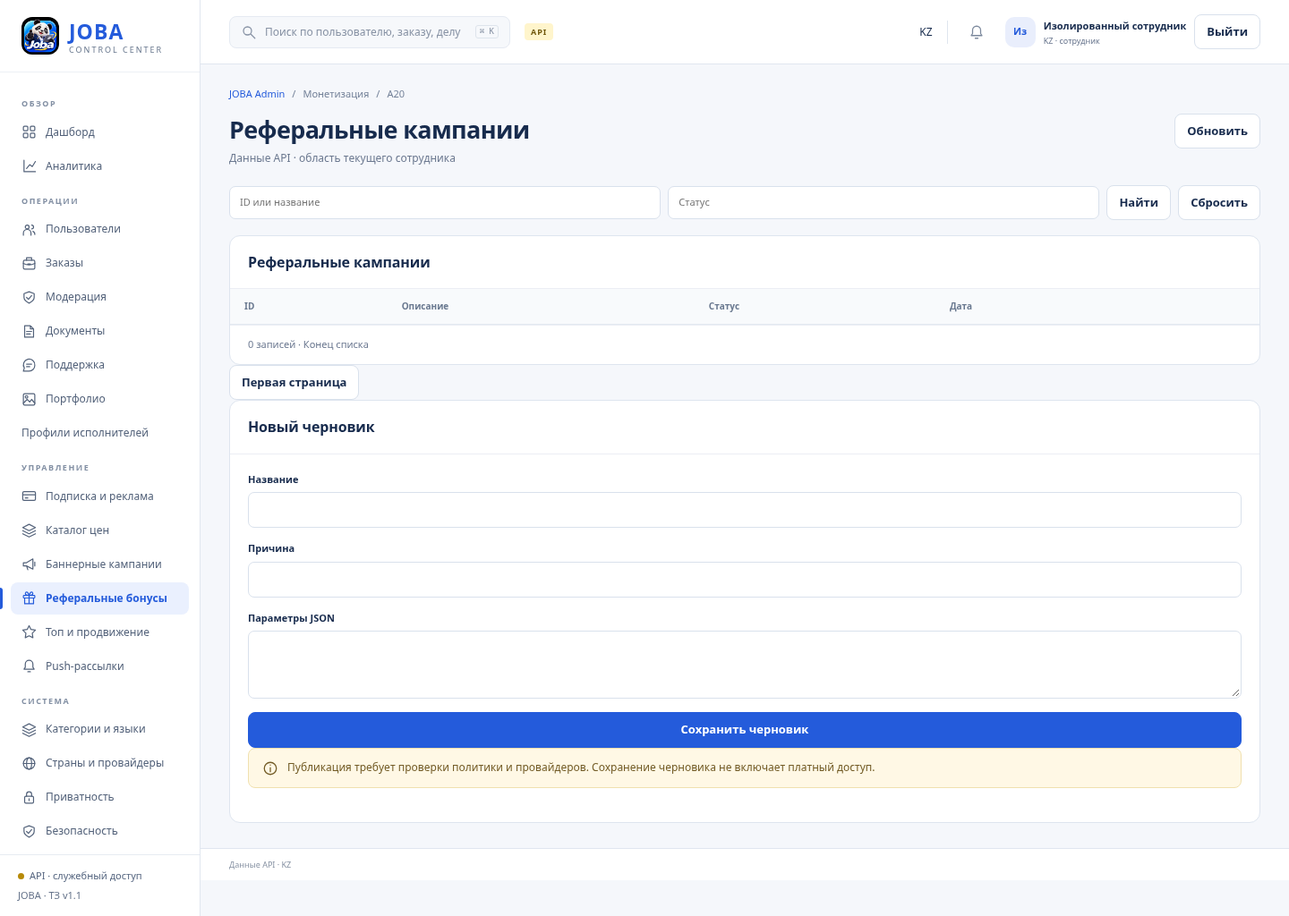
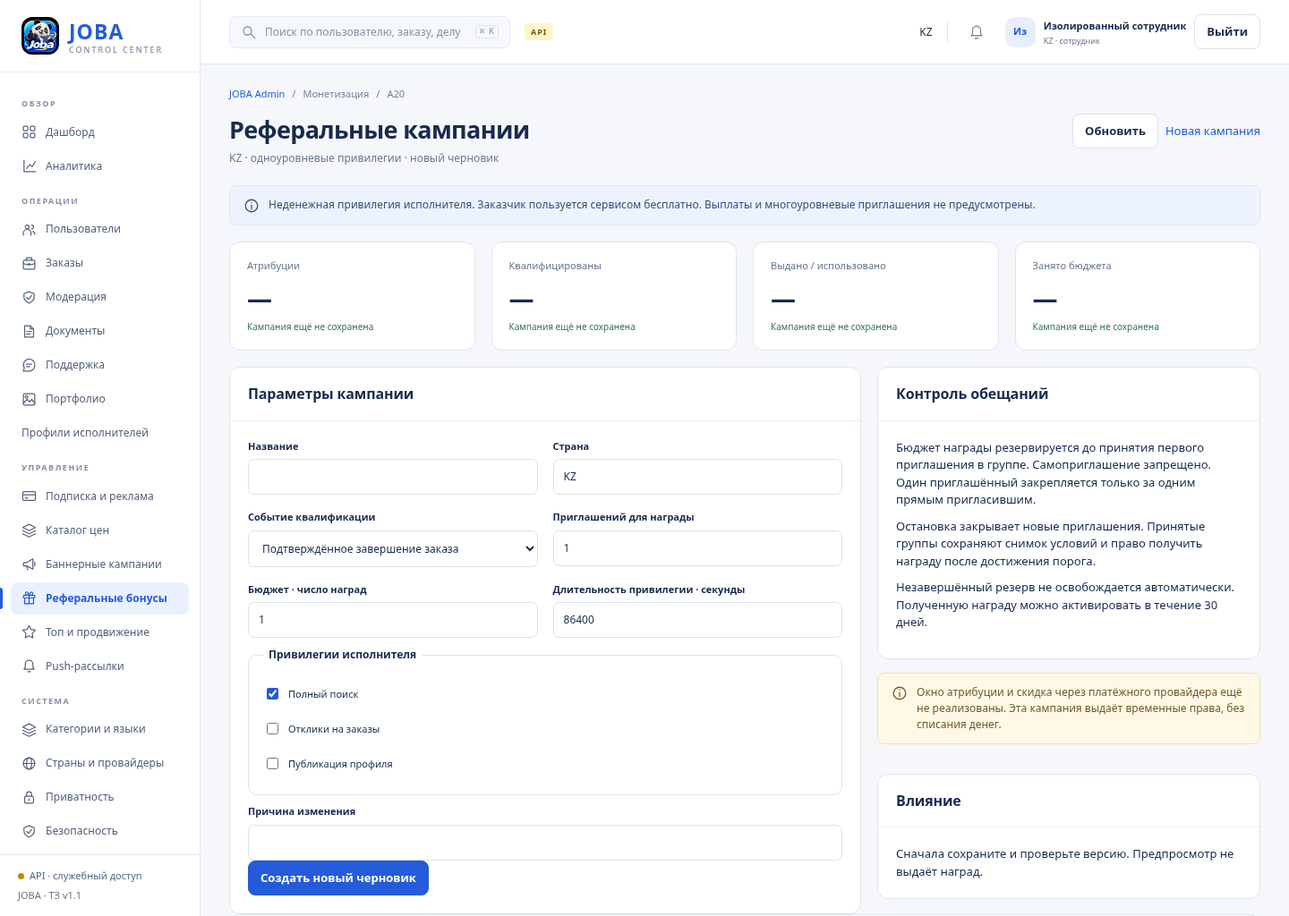
feat: connect structured referral campaign editor to API

diff --git a/apps/admin/referral-workspace.js b/apps/admin/referral-workspace.js
@@ -1,0 +1,12 @@
+const states={draft:'Черновик',effective:'Опубликована',superseded:'Заменена',stopped:'Остановлена'},events={completed_order:'Подтверждённое завершение заказа',executor_verified:'Успешная проверка исполнителя'},caps={search_full:'Полный поиск',send_offer:'Отклики на заказы',publish_profile:'Публикация профиля'};
+export async function referralWorkspace({key,api,esc,card,note,tablecard,country,actorId,onRefresh}){
+ const params=new URLSearchParams(location.hash.split('?')[1]||''),list=await api('/admin/referral-campaigns?'+new URLSearchParams({limit:'20',...(params.get('cursor')?{cursor:params.get('cursor')}:{})}));
+ const selected=params.get('id')||(!params.has('new')?list.items.find(x=>x.status==='effective')?.id:undefined),r=selected?await api('/admin/referral-campaigns/'+encodeURIComponent(selected)):undefined,p=r?.payload||{},own=r?.owner===actorId&&r.status==='draft',m=r?.metrics;
+ const input=(label,name,value,type='text',attrs='')=>`<div class="formfield"><label for="referral-${name}">${label}</label><input id="referral-${name}" name="${name}" value="${esc(value??'')}" type="${type}" ${attrs}></div>`;
+ return {key,id:key==='referral-preview'?'A20.preview':'A20',title:'Реферальные кампании',subtitle:country+' · одноуровневые привилегии · '+(r?'Версия '+r.version:'новый черновик'),section:'Монетизация',actions:'<button id="refresh-data">Обновить</button><a class="btn primary" href="#referrals?new=1">Новая кампания</a>',body:()=>`${note('Неденежная привилегия исполнителя. Заказчик пользуется сервисом бесплатно. Выплаты и многоуровневые приглашения не предусмотрены.')}<div class="grid cols4 mt">${[['Атрибуции',m?.attributions],['Квалифицированы',m?.qualified],['Выдано / использовано',m?m.issued+' / '+m.redeemed:undefined],['Занято бюджета',m?m.budget_used+' / '+p.budget_units:undefined]].map(([label,value])=>`<section class="card metric"><div class="metric-label">${esc(label)}</div><div class="metric-num">${esc(value??'—')}</div><div class="metric-trend">${m?'По выбранной кампании':'Кампания ещё не сохранена'}</div></section>`).join('')}</div><div class="grid split mt"><form id="referral-editor" class="stack">${card('Параметры кампании',`<div class="formgrid">${input('Название','title',r?.title,'text','required minlength="3" maxlength="120"')}${input('Страна','country',country,'text','readonly')}<div class="formfield"><label for="referral-event">Событие квалификации</label><select id="referral-event" name="qualifying_event">${Object.entries(events).map(([k,v])=>`<option value="${k}" ${p.qualifying_event===k?'selected':''}>${v}</option>`).join('')}</select></div>${input('Приглашений для награды','threshold',p.threshold??1,'number','required min="1" max="100"')}${input('Бюджет · число наград','budget_units',p.budget_units??1,'number','required min="1" max="1000000"')}${input('Длительность привилегии · секунды','reward_duration_seconds',p.reward_duration_seconds??86400,'number','required min="60" max="31622400"')}</div><fieldset><legend>Привилегии исполнителя</legend>${Object.entries(caps).map(([k,v])=>`<label class="check"><input name="capabilities" type="checkbox" value="${k}" ${(p.capabilities||['search_full']).includes(k)?'checked':''}> ${v}</label>`).join('')}</fieldset>${input('Причина изменения','reason','','text','required minlength="10" maxlength="1000"')}<div class="actions"><button class="primary">${own?'Сохранить черновик':'Создать новый черновик'}</button></div><div role="alert"></div>`)}</form><div class="stack">${card('Контроль обещаний','<p>Бюджет награды резервируется до принятия первого приглашения в группе. Самоприглашение запрещено. Один приглашённый закрепляется только за одним прямым пригласившим.</p><p>Остановка закрывает новые приглашения. Принятые группы сохраняют снимок условий и право получить награду после достижения порога.</p><p>Незавершённый резерв не освобождается автоматически. Полученную награду можно активировать в течение 30 дней.</p>')}${note('Окно атрибуции и скидка через платёжного провайдера ещё не реализованы. Эта кампания выдаёт временные права, без списания денег.','warn')}${r?card('Проверка и публикация',`<form id="referral-command" class="stack"><label for="referral-command-reason">Основание действия</label><textarea id="referral-command-reason" name="reason" required minlength="10" maxlength="1000"></textarea><div class="actions"><button value="validate">Проверить</button><button value="preview">Предпросмотр</button>${r.status==='draft'?'<button class="primary" value="publish">Опубликовать другим сотрудником</button>':r.status==='effective'?'<button value="stop">Остановить кампанию</button>':''}<button value="rollback">Черновик отката</button></div><div role="alert"></div><div role="status"></div></form>`):''}${card('Влияние','<div id="referral-impact">Сначала сохраните и проверьте версию. Предпросмотр не выдаёт наград.</div>')}</div></div>${tablecard('Версии кампаний',['Название','Состояние','Порог / бюджет',''],list.items.map(x=>[esc(x.title),esc(states[x.status]||x.status),esc(x.payload.threshold+' / '+x.payload.budget_units),`<a href="#referrals?id=${encodeURIComponent(x.id)}">Открыть →</a>`]))}${list.meta?.next_cursor?`<a class="btn" href="#referrals?cursor=${encodeURIComponent(list.meta.next_cursor)}">Следующая страница</a>`:''}`,
+ bind(){const form=document.getElementById('referral-editor'),commands=document.getElementById('referral-command');let dirty=false,busy=false;
+ form.oninput=()=>{dirty=true;if(commands){commands.querySelectorAll('button').forEach(b=>b.disabled=true);commands.querySelector('[role=status]').textContent='Сохраните изменения перед проверкой.';}};
+ form.onsubmit=async e=>{e.preventDefault();if(busy)return;const data=new FormData(form),values=Object.fromEntries(data),capabilities=data.getAll('capabilities');if(!capabilities.length){form.querySelector('[role=alert]').textContent='Выберите хотя бы одну привилегию.';return;}const payload={threshold:Number(values.threshold),budget_units:Number(values.budget_units),reward_duration_seconds:Number(values.reward_duration_seconds),qualifying_event:values.qualifying_event,capabilities};const controls=[...form.querySelectorAll('input,select,button')];busy=true;controls.forEach(x=>x.disabled=true);form.querySelector('[role=alert]').textContent='';try{const saved=await api('/admin/referral-campaigns'+(own?'/'+r.id:''),own?'PATCH':'POST',{title:values.title,reason:values.reason,payload,...(own?{expected_version:r.version}:{})});if(selected===saved.id)await onRefresh();else location.hash='referrals?id='+encodeURIComponent(saved.id);}catch(error){form.querySelector('[role=alert]').textContent=error.message;}finally{busy=false;controls.forEach(x=>x.disabled=false);}};
+ if(commands)commands.onsubmit=async e=>{e.preventDefault();if(dirty||busy)return;busy=true;const action=e.submitter.value;commands.querySelectorAll('button').forEach(x=>x.disabled=true);form.querySelectorAll('input,select,button').forEach(x=>x.disabled=true);commands.querySelector('[role=alert]').textContent='';try{const result=await api('/admin/referral-campaigns/'+r.id+'/'+action,'POST',{expected_version:r.version,reason:new FormData(commands).get('reason')});if(['validate','preview'].includes(action)){commands.querySelector('[role=status]').textContent='Сохранённая версия проверена.';document.getElementById('referral-impact').textContent=action==='preview'?`Страна ${result.country}; активных аккаунтов ${result.country_active_accounts}; версия ${result.source_version}. Награды не выданы.`:'Порог, бюджет, событие и привилегии корректны.';}else if(action==='rollback')location.hash='referrals?id='+encodeURIComponent(result.id);else await onRefresh();}catch(error){commands.querySelector('[role=alert]').textContent=error.message;}finally{busy=false;commands.querySelectorAll('button').forEach(x=>x.disabled=dirty);form.querySelectorAll('input,select,button').forEach(x=>x.disabled=false);}};
+ }};
+}

diff --git a/apps/admin/runtime.js b/apps/admin/runtime.js
@@ -1,3 +1,4 @@
+import {referralWorkspace} from './referral-workspace.js';
 import {categoryWorkspace} from './category-workspace.js';
 import {priceWorkspace} from './price-workspace.js';
 import {documentPolicyWorkspace} from './document-policy-workspace.js';
@@ -21,7 +22,7 @@ const {routes,render,card,tablecard,field,note,metric,badge}=window.JOBA_ADMIN;
 const designMode=new URLSearchParams(location.search).has('design');
 const esc=v=>String(v??'').replace(/[&<>"']/g,c=>({'&':'&amp;','<':'&lt;','>':'&gt;','"':'&quot;',"'":'&#39;'}[c]));
 let session,loginDraft,cache={},error='',generation=0,disposeWorkspace;
-const privateWorkspaces=new Set([...pushRoutes,...scenarioRoutes,...userRoutes,'categories','prices','pricing','verificationPolicies','retention','campaigns','banner-detail','branding-build','boosts','boost-grant','analytics','dashboard','security','jobs','scheduled','job-detail','branding','countries','monetization','settings','legal']);
+const privateWorkspaces=new Set([...pushRoutes,...scenarioRoutes,...userRoutes,'referrals','referral-preview','categories','prices','pricing','verificationPolicies','retention','campaigns','banner-detail','branding-build','boosts','boost-grant','analytics','dashboard','security','jobs','scheduled','job-detail','branding','countries','monetization','settings','legal']);
 const cursors={},filters={},configRoutes=new Set(['prices','pricing','monetization','push','referrals','dictionaries','dictionary','categories','ranking','placements','verificationPolicies','retention']);
 const sections={users:['users','Аккаунты'],orders:['orders','Заказы'],support:['support-threads','Поддержка'],'support-recovery':['recovery-threads','Восстановление доступа'],moderation:['cases','Дела'],portfolio:['portfolio','Портфолио'],contractors:['contractors','Профили исполнителей'],privacy:['privacy-requests','Запросы приватности'],blacklist:['blacklist','Черный список'],audit:['audit','Аудит'],prices:['price-versions','Цены'],monetization:['monetization-configs','Монетизация'],push:['push-campaigns','Рассылки'],referrals:['referral-campaigns','Реферальные кампании'],dictionaries:['moderation-dictionaries','Словари'],categories:['categories','Категории'],ranking:['ranking-configs','Рейтинг'],pricing:['price-versions','Каталог цен'],campaigns:['banner-campaigns','Кампании'],dictionary:['moderation-dictionaries','Запрещенные слова'],verification:['verifications','Проверка документов'],top100:['boost-reports','Топ и продвижение'],placements:['placement-policies','Размещения'],verificationPolicies:['verification-policies','Правила проверки'],retention:['retention-policies','Сроки хранения']};
 function clearStaffState(){
@@ -104,18 +105,19 @@ async function draw(reload=true) {
     if(reload&&session){
       const workspace=document.querySelector('.workspace');if(workspace){workspace.innerHTML=note('Загрузка данных…');workspace.setAttribute('aria-busy','true');}
       if(pushRoutes.has(key))routes[key]=await pushWorkspace({key,country:session.user.country,canManageTests:session.user.staff_permissions?.includes('administrator'),api:request,esc,card,tablecard,note,badge,namedField,onRefresh:()=>draw()});
-      if(scenarioRoutes.has(key)&&!['promo','promo-preview','banner-detail'].includes(key))routes[key]=await scenarioWorkspace({key,api:request,esc,card,tablecard,note,namedField,onRefresh:()=>draw()});
+      if(scenarioRoutes.has(key)&&!['promo','promo-preview','banner-detail','referral-preview'].includes(key))routes[key]=await scenarioWorkspace({key,api:request,esc,card,tablecard,note,namedField,onRefresh:()=>draw()});
       if(['boosts','boost-grant'].includes(key))routes[key]=await boostWorkspace({key,api:request,esc,card,tablecard,note,badge,onRefresh:()=>draw()});
       if(key==='branding-build')routes[key]=await brandingBuildWorkspace({key,api:request,download:api.download,esc,card,tablecard,note,badge,onRefresh:()=>draw()});
       if(key==='branding')routes[key]=await brandingWorkspace({key,api:request,files:{upload:async file=>{if(g!==generation)throw Error('Экран изменился');const result=await api.upload(file);if(g!==generation)throw Error('Экран изменился');return result;},download:async path=>{if(g!==generation)throw Error('Экран изменился');const result=await api.download(path);if(g!==generation)throw Error('Экран изменился');return result;}},esc,card,note,badge,namedField,onRefresh:()=>draw()});
       if(key==='countries')routes[key]=await countryWorkspace({key,api:request,esc,card,note,badge,namedField,onRefresh:()=>draw()});
       if(['analytics','dashboard','security','jobs','scheduled','job-detail'].includes(key))routes[key]=await systemWorkspace({key,api:request,esc,card,tablecard,note,metric,badge,onRefresh:()=>draw()});
       if(key==='security')routes[key].actions+='<a class="btn" href="#security-full">Защищённый просмотр</a>';
-      if(sections[key]&&!pushRoutes.has(key)&&!['campaigns','verificationPolicies','retention','prices','pricing','categories'].includes(key))cache[key]=await request('/admin/'+sections[key][0]+'?'+new URLSearchParams({...filters[key],...(cursors[key]?{cursor:cursors[key]}:{})}));
+      if(sections[key]&&!pushRoutes.has(key)&&!['referrals','campaigns','verificationPolicies','retention','prices','pricing','categories'].includes(key))cache[key]=await request('/admin/'+sections[key][0]+'?'+new URLSearchParams({...filters[key],...(cursors[key]?{cursor:cursors[key]}:{})}));
       if(key==='categories')routes[key]=await categoryWorkspace({key,api:request,esc,card,note,tablecard,country:session.user.country,actorId:session.user.id,onRefresh:()=>draw()});
       if(['verificationPolicies','retention'].includes(key))routes[key]=await documentPolicyWorkspace({key,api:request,esc,card,note,tablecard,country:session.user.country,actorId:session.user.id,onRefresh:()=>draw()});
       if(['campaigns','banner-detail'].includes(key))routes[key]=await bannerWorkspace({key,api:request,files:{upload:async file=>{if(g!==generation)throw Error('Экран изменился');const result=await api.upload(file,'banner');if(g!==generation)throw Error('Экран изменился');return result;},download:async path=>{if(g!==generation)throw Error('Экран изменился');const result=await api.download(path);if(g!==generation)throw Error('Экран изменился');return result;}},esc,card,note,tablecard,country:session.user.country,actorId:session.user.id,onRefresh:()=>draw()});
       if(['promo','promo-preview'].includes(key))routes[key]=await promotionWorkspace({key,api:request,esc,card,note,tablecard,country:session.user.country,actorId:session.user.id,onRefresh:()=>draw()});
+      if(['referrals','referral-preview'].includes(key))routes[key]=await referralWorkspace({key,api:request,esc,card,note,tablecard,country:session.user.country,actorId:session.user.id,onRefresh:()=>draw()});
       if(['pricing','prices'].includes(key))routes[key]=await priceWorkspace({key,api:request,esc,card,note,tablecard,country:session.user.country,actorId:session.user.id,onRefresh:()=>draw()});
       if(key==='monetization')routes[key]=await monetizationWorkspace({key,api:request,esc,card,note,metric,badge,namedField,onRefresh:()=>draw()});
       if(['settings','legal'].includes(key)||key.startsWith('recovery-live/'))routes[key]=await operationsWorkspace({key,api:request,esc,card,note,namedField,onRefresh:()=>draw()});

diff --git a/services/api/src/marketplace.ts b/services/api/src/marketplace.ts
@@ -1,3 +1,4 @@
+import {referralPolicy} from './referral-policy';
 import {categoryId,categoryPayload} from './category-payload';
 import {pricePayload} from './price-payload';
 import {countryEnabled} from './country-access';
@@ -1287,8 +1288,18 @@ export class Marketplace {
           if(b.payload?.category_id){const original=await this.object(String(b.payload.category_id),a,'category');stable=categoryId(original);r.legacy_id=original.legacy_id;}
           r.payload=categoryPayload(b.payload,a.country,stable);r.base_version_id=(await this.categories(a.country)).find(x=>x.id===stable)?.record_id??null;await this.store.put(r);await this.audit(a,'categories.draft',r.id,text(b,'reason',5,1000));return r;
         }
-        const r=this.record(kinds[section],a,{title:text(b,'title',3,120),status:'draft',payload:section==='price-versions'?pricePayload(b.payload,a.country):section==='push-campaigns'?normalizePushPayload(b.payload??{}):section==='promotions'?normalizePromotionPayload(b.payload??{}):b.payload??{}});
+        const r=this.record(kinds[section],a,{title:text(b,'title',3,120),status:'draft',payload:section==='referral-campaigns'?referralPolicy(b.payload):section==='price-versions'?pricePayload(b.payload,a.country):section==='push-campaigns'?normalizePushPayload(b.payload??{}):section==='promotions'?normalizePromotionPayload(b.payload??{}):b.payload??{}});
         await this.store.put(r);await this.audit(a,section+'.draft',r.id,text(b,'reason',5,1000));return r;
+      }
+      const editReferral=path.match(/^\/admin\/referral-campaigns\/([^/]+)$/);
+      if(editReferral&&['GET','PATCH'].includes(method)){
+        const r=await this.object(editReferral[1],a,'referral_campaign');
+        if(method==='GET'){
+          const attributions=(await this.store.all('referral_attribution',a.country)).filter(x=>x.campaign_id===r.id),rewards=(await this.store.all('referral_reward',a.country)).filter(x=>x.campaign_id===r.id),reservations=(await this.store.all('referral_reservation',a.country)).filter(x=>x.campaign_id===r.id);
+          return {...r,metrics:{attributions:attributions.length,qualified:attributions.filter(x=>x.status==='qualified').length,issued:rewards.length,redeemed:rewards.filter(x=>x.status==='redeemed').length,reserved:reservations.filter(x=>x.status==='reserved').length,budget_used:reservations.length+rewards.filter(x=>!x.reservation_id).length}};
+        }
+        this.version(r,b);if(r.owner!==a.id||r.status!=='draft')fail(409,'STATE_CONFLICT','Создайте новый черновик кампании');
+        const result=await this.store.put({...r,title:text(b,'title',3,120),payload:referralPolicy(b.payload),preview:undefined,version:r.version+1});await this.audit(a,'referrals.edited',r.id,text(b,'reason',5,1000));return result;
       }
       const editCategory=path.match(/^\/admin\/categories\/([^/]+)$/);
       if(editCategory&&['GET','PATCH'].includes(method)){
@@ -1381,7 +1392,7 @@ export class Marketplace {
       if(configurationCommand&&configKinds.includes(section)&&method==='POST') {
         const r=await this.object(configurationCommand[2],a,kinds[section]);
         if(configurationCommand[3]==='preview'){this.version(r,b);const reason=text(b,'reason',10,1000);const preview=await this.configuration.preview(r);await this.audit(a,'configuration.preview',r.id,reason);return preview;}
-        if(configurationCommand[3]==='validate'){if(['verification_policy','retention_policy','price_version','category'].includes(r.kind))this.version(r,b);const result=await this.configuration.validate(r);if(r.kind==='price_version')await this.audit(a,'prices.validated',r.id,text(b,'reason',10,1000));return result;}
+        if(configurationCommand[3]==='validate'){if(['verification_policy','retention_policy','price_version','category','referral_campaign'].includes(r.kind))this.version(r,b);const result=await this.configuration.validate(r);if(r.kind==='price_version')await this.audit(a,'prices.validated',r.id,text(b,'reason',10,1000));return result;}
         const result=await this.configuration.publish(r,a.id,b.expected_version);await this.audit(a,section+'.published',r.id,text(b,'reason',10,1000));return result;
       }
       const configurationStop=path.match(/^\/admin\/([^/]+)\/([^/]+)\/(stop|cancel|rollback)$/);

diff --git a/services/api/src/configuration.ts b/services/api/src/configuration.ts
@@ -1,3 +1,4 @@
+import {referralPolicy} from './referral-policy';
 import {categoryId,validateCategory} from './category-payload';
 import {pricePayload} from './price-payload';
 import {validatePushCampaign} from './push-campaigns';
@@ -63,11 +64,7 @@ export class Configuration {
     }
     if(r.kind==='dictionary'){try{validateRules(p.rules);}catch(e:any){fail('VALIDATION_ERROR',e.message);}}
     if(r.kind==='category')return validateCategory(this.store,r);
-    if(r.kind==='referral_campaign') {
-      if(!Number.isInteger(p.threshold)||p.threshold<1||p.threshold>100||!Number.isInteger(p.budget_units)||p.budget_units<1||!Number.isInteger(p.reward_duration_seconds)||p.reward_duration_seconds<60)fail('VALIDATION_ERROR','Проверьте порог, бюджет и длительность');
-      if(!['completed_order','executor_verified'].includes(p.qualifying_event))fail('VALIDATION_ERROR','Укажите подтверждаемое событие');
-      if(p.multilevel||p.cash_payout)fail('POLICY_REJECTED','В первом релизе только одноуровневые неденежные привилегии');
-    }
+    if(r.kind==='referral_campaign')referralPolicy(p);
     if(r.kind==='ranking_config')rankingParameters(p);
     if(r.kind==='placement_policy'&&(!Number.isInteger(p.capacity)||p.capacity<1||p.capacity>100))fail('VALIDATION_ERROR','Проверьте ёмкость размещения');
     if(['verification_policy','retention_policy'].includes(r.kind)) {
@@ -99,7 +96,7 @@ export class Configuration {
       const active=(await this.store.all('boost',r.country)).filter(x=>x.placement_id===r.payload.placement_id&&['active','scheduled'].includes(x.status));
       if(active.length>r.payload.capacity)fail('CAPACITY_PROMISE_CONFLICT','Нельзя уменьшить ёмкость ниже выданных обещаний',409);
     }
-    const scope=(x:RecordData)=>JSON.stringify(x.kind==='category'?{category:x.payload?.category_id??x.id}:x.kind==='price_version'?{provider:x.payload.provider,product:x.payload.product_id,audience:x.payload.audience}:x.kind==='placement_policy'?{placement:x.payload.placement_id}:{scope:x.payload?.scope,role:x.payload?.role,platform:x.payload?.platform});
+    const scope=(x:RecordData)=>JSON.stringify(x.kind==='referral_campaign'?{country:x.country}:x.kind==='category'?{category:x.payload?.category_id??x.id}:x.kind==='price_version'?{provider:x.payload.provider,product:x.payload.product_id,audience:x.payload.audience}:x.kind==='placement_policy'?{placement:x.payload.placement_id}:{scope:x.payload?.scope,role:x.payload?.role,platform:x.payload?.platform});
     for(const old of await this.store.all(r.kind,r.country))if(old.status==='effective'&&scope(old)===scope(r))await this.store.put({...old,status:'superseded',version:old.version+1});
     return this.store.put({...r,status:'effective',preview,published_by:actor,published_at:new Date().toISOString(),version:r.version+1});
   }

diff --git a/services/api/src/referral-policy.ts b/services/api/src/referral-policy.ts
@@ -1,0 +1,9 @@
+import {HttpException} from '@nestjs/common';
+export function referralPolicy(p:any){
+ const fail=(message:string):never=>{throw new HttpException({error:{code:'VALIDATION_ERROR',message,details:{},retryable:false}},422);};
+ if(!p||!Number.isSafeInteger(p.threshold)||p.threshold<1||p.threshold>100||!Number.isSafeInteger(p.budget_units)||p.budget_units<1||p.budget_units>1000000||!Number.isSafeInteger(p.reward_duration_seconds)||p.reward_duration_seconds<60||p.reward_duration_seconds>366*86400)fail('Проверьте порог, бюджет и длительность привилегии');
+ if(!['completed_order','executor_verified'].includes(p.qualifying_event))fail('Укажите подтверждаемое событие');
+ if(p.multilevel||p.cash_payout)fail('Допустимы только одноуровневые неденежные привилегии');
+ if(!Array.isArray(p.capabilities)||!p.capabilities.length||new Set(p.capabilities).size!==p.capabilities.length||p.capabilities.some((x:any)=>!['search_full','send_offer','publish_profile'].includes(x)))fail('Выберите доступные привилегии исполнителя');
+ return {threshold:p.threshold,budget_units:p.budget_units,reward_duration_seconds:p.reward_duration_seconds,qualifying_event:p.qualifying_event,capabilities:p.capabilities,multilevel:false,cash_payout:false};
+}

diff --git a/apps/admin/styles.css b/apps/admin/styles.css
@@ -21,3 +21,5 @@
 .category-schema-field{border:1px solid #D9E1EC;border-radius:8px;margin:12px 0;padding:14px}.category-schema-field label{display:flex;flex-direction:column;gap:6px;font-size:11px}.category-schema-field input[type=checkbox]{width:auto;align-self:flex-start}.category-schema-field button{margin-top:10px}
 
 .category-workspace{column-gap:14px}.category-workspace .cardhead{padding:15px 18px}.category-workspace .cardhead h2{font-size:14px}.category-workspace .cardbody{padding:16px 18px}.category-workspace .formfield input,.category-workspace .formfield select{font-size:11px}.category-workspace .formgrid{gap:17px 12px}.category-workspace .treeitem{color:#53627A}.category-workspace .treeitem.selected{color:#245BDB;background:#EAF0FE}
+
+#referral-editor fieldset{border:1px solid var(--line,#dbe3f2);border-radius:10px;padding:12px 16px;margin:10px 0;min-width:0}#referral-editor legend{font-size:12px;font-weight:700;padding:0 6px}#referral-editor .check{display:flex;align-items:center;gap:8px;margin:6px 0}#referral-editor .check input{width:auto;min-height:0}

diff --git a/docs/referral-editor-update.md b/docs/referral-editor-update.md
@@ -1,0 +1,13 @@
+# Форма реферальной кампании A20
+
+16.10.2026. Вместо общего JSON-редактора подключена отдельная форма к реальному API: название, страна, подтверждаемое событие, порог приглашений, бюджет в единицах наград, срок и набор временных прав исполнителя.
+
+Сохранение своего черновика использует PATCH с expected_version; чужая или опубликованная версия сохраняется новым черновиком. Проверка и предпросмотр относятся к сохранённой версии, несохранённые изменения блокируют команды. Публикацию подтверждает другой сотрудник. Доступны остановка и создание черновика отката через существующий жизненный цикл конфигурации. Метрики атрибуций, квалификаций, выданных/погашенных наград и занятого бюджета считаются по региональным записям выбранной кампании. Список версий поддерживает курсор.
+
+API отклоняет дробный/небезопасный бюджет, недопустимые события, пустые/повторяющиеся/произвольные capabilities, денежные и многоуровневые награды. Максимум бюджета — миллион наград, длительности — 366 суток. В регионе публикуется одна действующая реферальная кампания, чтобы выбор кампании при атрибуции оставался однозначным.
+
+Не завершены: окно атрибуции, правила освобождения незавершённого резерва, миграция исторических обязательств, скидки/предложения платёжного провайдера. Экран явно показывает ограничения доступной механики. Подписка заказчику не вводится.
+
+Визуальная приёмка A20 и A20.preview открыта: общий каркас, типографика, размеры и представление предпросмотра требуют дальнейшей сверки. Наличие формы и снимка не означает совпадение 1:1. Изменение не развёрнуто на рабочий сервер.
+
+Проверки: сборка всех workspace; 91 тест API успешно, 0 ошибок и пропусков. Браузерный сценарий через реальный изолированный HTTP API проверяет форму без JSON, создание, PATCH версии, блокировку команд при несохранённых изменениях, предпросмотр и отказ в самостоятельной публикации.

diff --git a/docs/completion-plan.md b/docs/completion-plan.md
@@ -32,7 +32,7 @@
 
 ## 5. Структурированные формы админки
 
-Статус: в работе. Формы правил проверки, хранения документов, каталога цен и категорий реализованы; остальные формы и визуальная приёмка открыты. См. `document-policy-editor-update.md`, `price-editor-update.md`, `category-editor-update.md`. В реферальной механике добавлен резерв бюджета до принятия приглашения; форма A20 остаётся открытой. См. `referral-reservations-update.md`.
+Статус: в работе. Формы правил проверки, хранения документов, каталога цен и категорий реализованы; остальные формы и визуальная приёмка открыты. См. `document-policy-editor-update.md`, `price-editor-update.md`, `category-editor-update.md`. В реферальной механике добавлен резерв бюджета до принятия приглашения; структурированная форма A20 подключена к API, дополнительные правила и визуальная приёмка открыты. См. `referral-reservations-update.md`, `referral-editor-update.md`.
 
 Условие завершения: Для каждой формы поля, ограничения, сохранение, конфликт и права.
 
